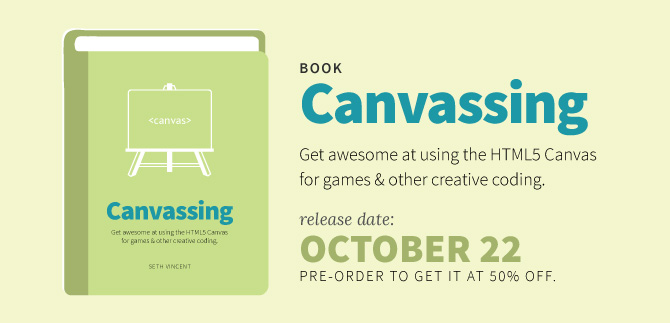
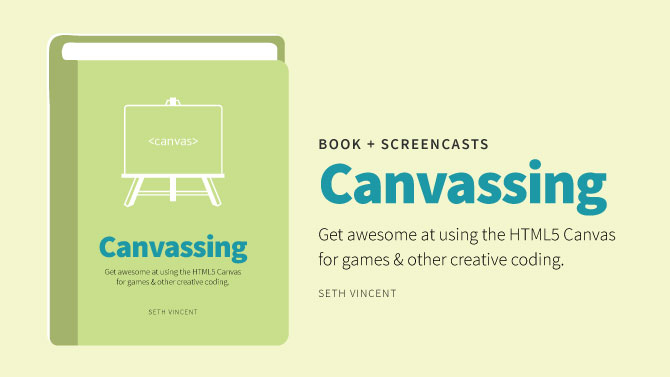
update

diff --git a/_includes/sidebar.html b/_includes/sidebar.html
@@ -8,18 +8,13 @@
   
   <hr>
   
-  <h2>New Book: <b>Canvassing</b></h2>
+  <h2><b>Canvassing</b></h2>
   <a href="{{ site.baseurl }}/canvassing">
     <img src="{{ site.baseurl }}/img/canvassing/canvassing-cover-200x259.png" id="four-books">
   </a>
   <h5 class="sidebar-button">
     <a href="{{ site.baseurl }}/canvassing">
-      <b>Get awesome at using the html5 canvas tag for games, art, & other creative coding.</b>
-      <br>
-      <br>
-      Launches Oct. 22
-      <br>
-      Pre-order at 50% off
+      <b>A book & screencasts teachingg JavaScript & the html5 canvas tag for games, art, & other creative coding.</b>
     </a>
   </h5>
   
